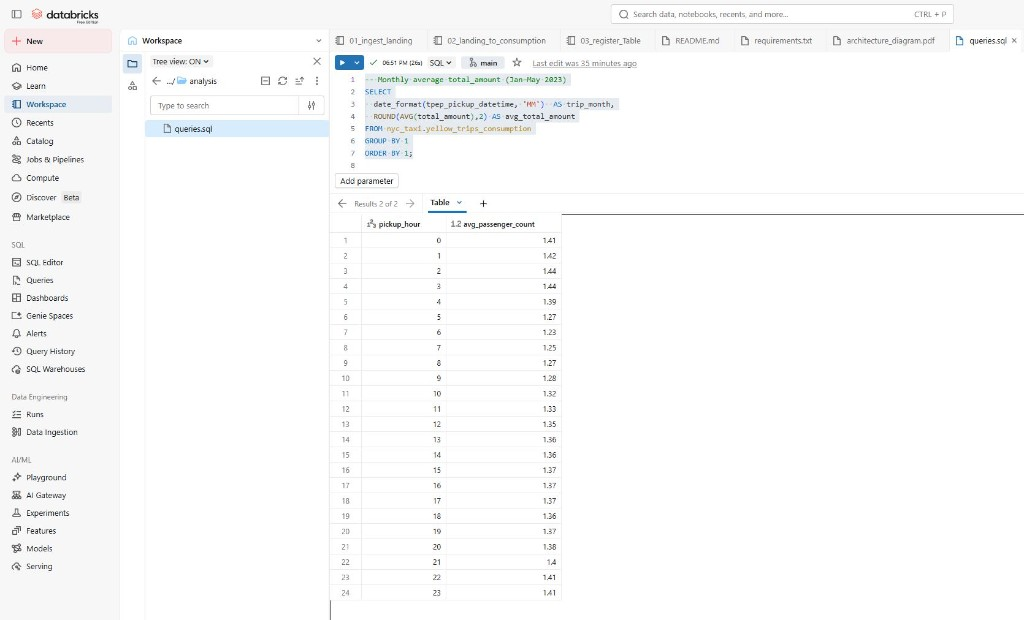
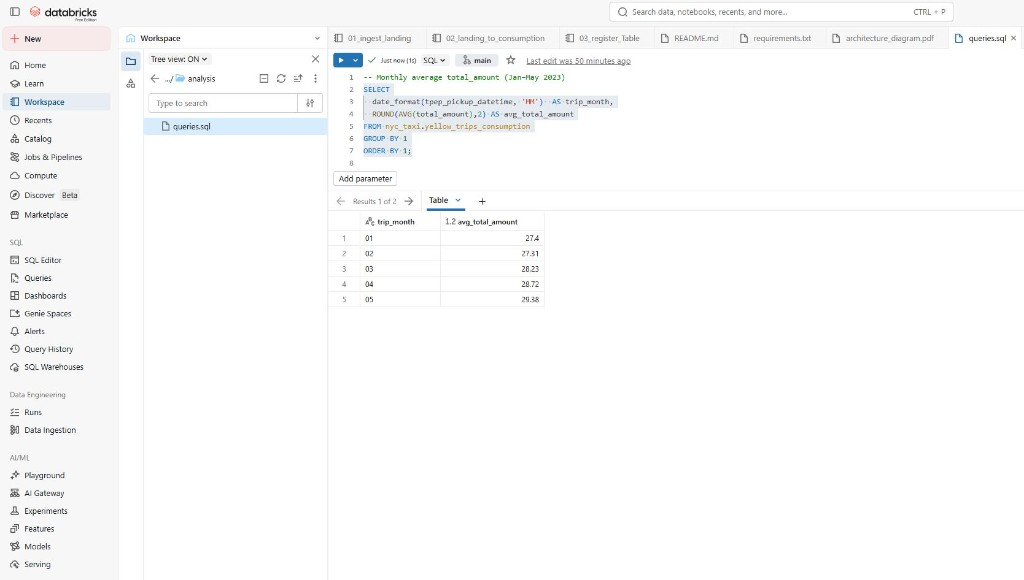
adjust readme queries image

diff --git a/README.md b/README.md
@@ -237,6 +237,16 @@ ORDER BY 1;
 
 ![Question 1 — monthly average total_amount](docs/images/query_1_monthly_avg_total_amount.png)
 
+| trip_month | avg_total_amount |
+|------------|------------------|
+| 01 | 27.40 |
+| 02 | 27.31 |
+| 03 | 28.23 |
+| 04 | 28.72 |
+| 05 | 29.38 |
+
+**Brief reading:** average fare (`total_amount`) rises slightly from January to May 2023, from **27.40** to **29.38**, on cleansed yellow taxi data.
+
 ---
 
 ### Question 2 — Average `passenger_count` by hour of day in May 2023